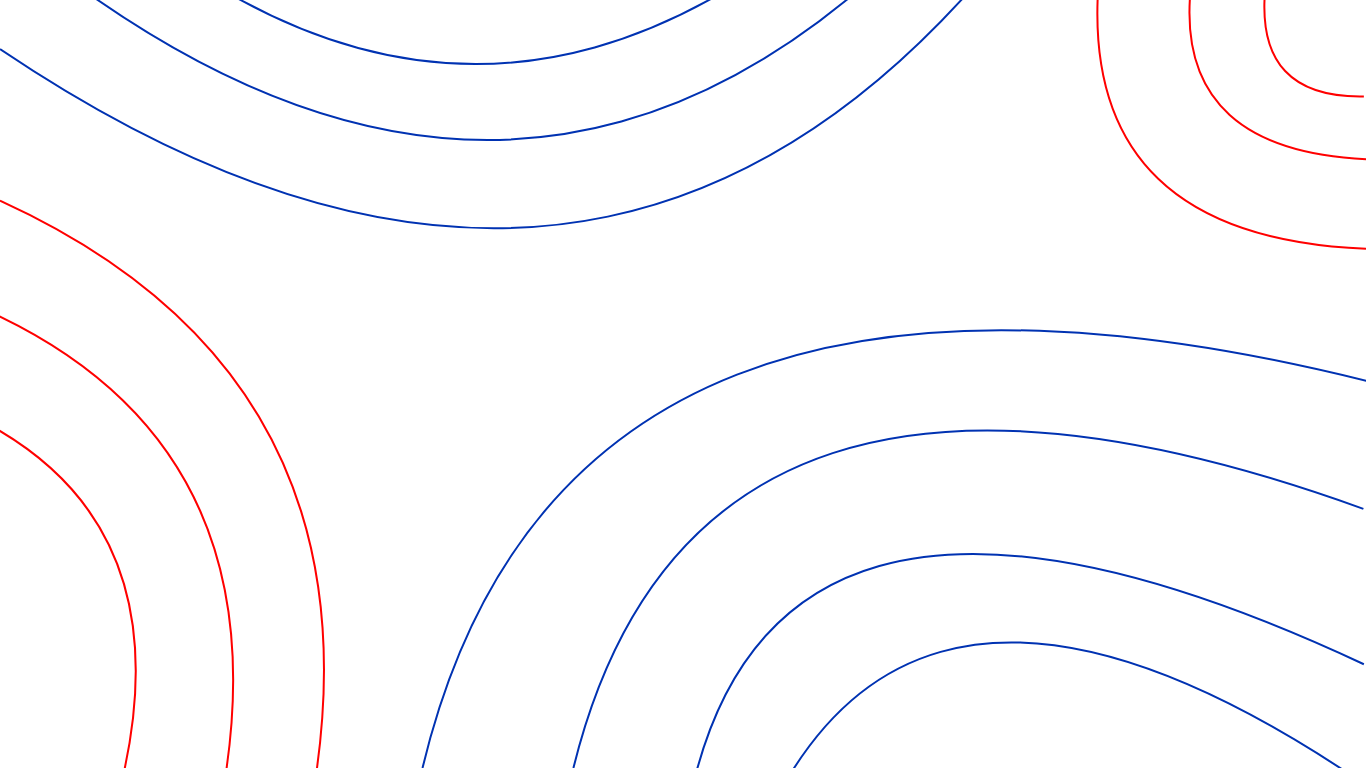
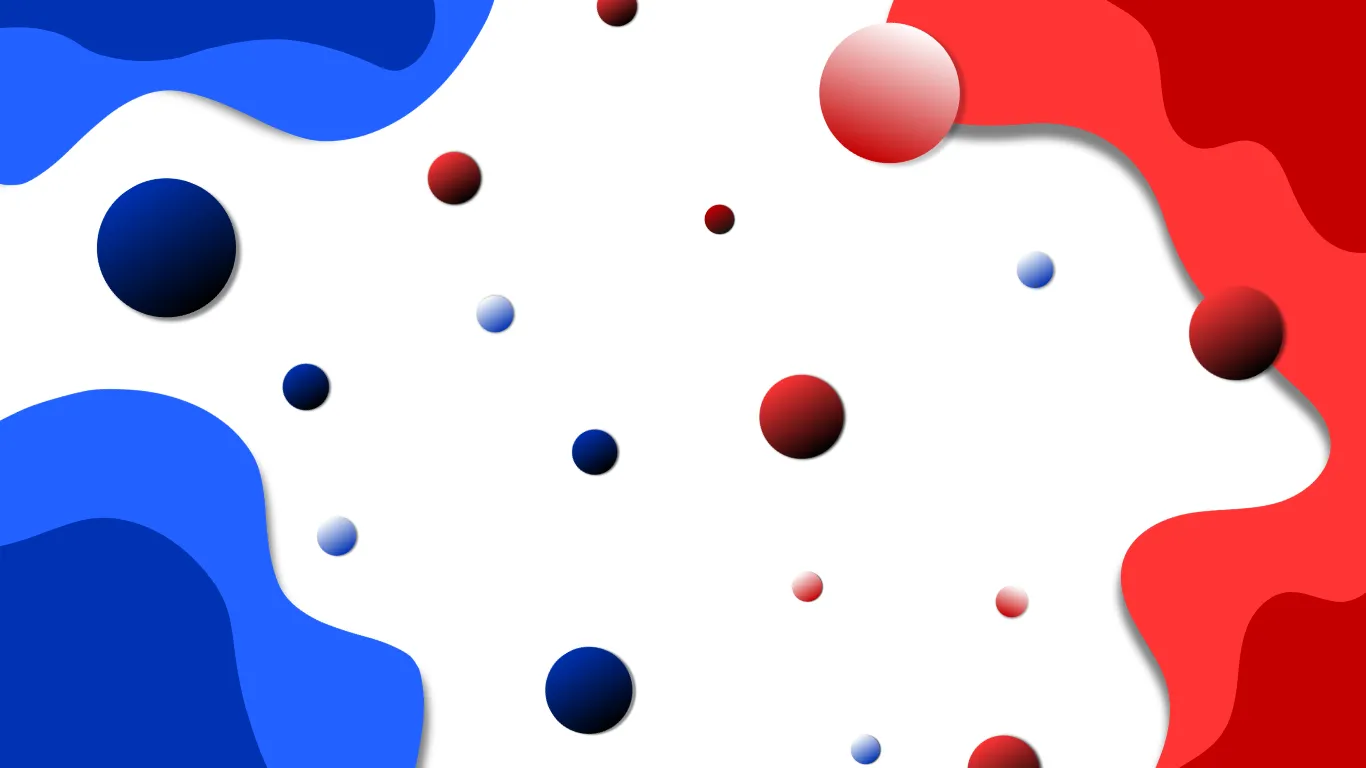
diminuição da div do desktop

diff --git a/ponto-escolar/public/assets/css/senha/senha.css b/ponto-escolar/public/assets/css/senha/senha.css
@@ -113,7 +113,7 @@ html::-webkit-scrollbar {
   body {
     min-height: 100vh;
     background:
-      url("/assets/img/background-mobile.png")
+      url("/assets/img/background-mobile.webp")
       center center / cover
       no-repeat fixed;
   }
@@ -125,7 +125,7 @@ html::-webkit-scrollbar {
   body {
     align-items: center;
     padding: 40px 20px;
-    background: url("/assets/img/background-desktop.png") center center / cover no-repeat fixed;
+    background: url("/assets/img/background-desktop.webp") center center / cover no-repeat fixed;
   }
 
   .logo-desktop {
@@ -142,9 +142,9 @@ html::-webkit-scrollbar {
   }
 
   .phone-frame {
-    width: min(100%, 620px);
-    max-width: 620px;
-    min-width: min(520px, 100%);
+    width: min(100%, 520px);
+    max-width: 520px;
+    min-width: min(440px, 100%);
     min-height: 0;
     height: auto;
     border-radius: 28px;
@@ -152,13 +152,32 @@ html::-webkit-scrollbar {
   }
 
   .content {
-    padding: 48px 56px 44px;
+    padding: 36px 42px 34px;
   }
+}
+
+/* Laptops: card mais compacto, sem comprometer a leitura. */
+@media (min-width: 992px) and (max-width: 1439.98px) {
+  body { padding: 28px 20px; }
+
+  .phone-frame {
+    width: min(100%, 480px);
+    max-width: 480px;
+    min-width: 0;
+  }
+
+  .content { padding: 30px 36px 30px; }
+  .logo-desktop { margin-bottom: 16px; }
+  .logo-desktop img { width: 64px; height: 64px; }
+  .brand { font-size: 34px; margin-bottom: 20px; }
+  .subtitle { margin-bottom: 20px; }
+  .method-block { margin-bottom: 20px; }
+  .btn-primary { height: 50px; }
 }
 
 @media (min-width: 1440px) {
   .phone-frame {
-    max-width: 700px;
+    max-width: 540px;
   }
 }
 

diff --git a/ponto-escolar/views/senha/senha.html b/ponto-escolar/views/senha/senha.html
@@ -4,7 +4,7 @@
 <meta charset="UTF-8">
 <meta name="viewport" content="width=device-width, initial-scale=1.0">
 <title>ATesta Ponto | Recuperar senha</title>
-<link rel="stylesheet" href="/assets/css/senha/senha.css">
+<link rel="stylesheet" href="/assets/css/senha.css">
 </head>
 <body>
 
@@ -14,7 +14,7 @@
     <main class="content">
 
       <div class="logo-desktop" aria-hidden="true">
-        <img src="/assets/img/atestaponto-favicon-96.png" alt="ATesta Ponto">
+        <img src="/assets/img/atestaponto-favicon-96.webp" alt="ATesta Ponto">
       </div>
 
       <h1 class="brand"><span class="brand-a">ATesta</span> <span class="brand-p">Ponto</span></h1>
@@ -138,6 +138,6 @@
     </main>
   </div>
 
-<script src="/assets/js/senha/senha.js"></script>
+<script src="/assets/js/senha.js"></script>
 </body>
 </html>
